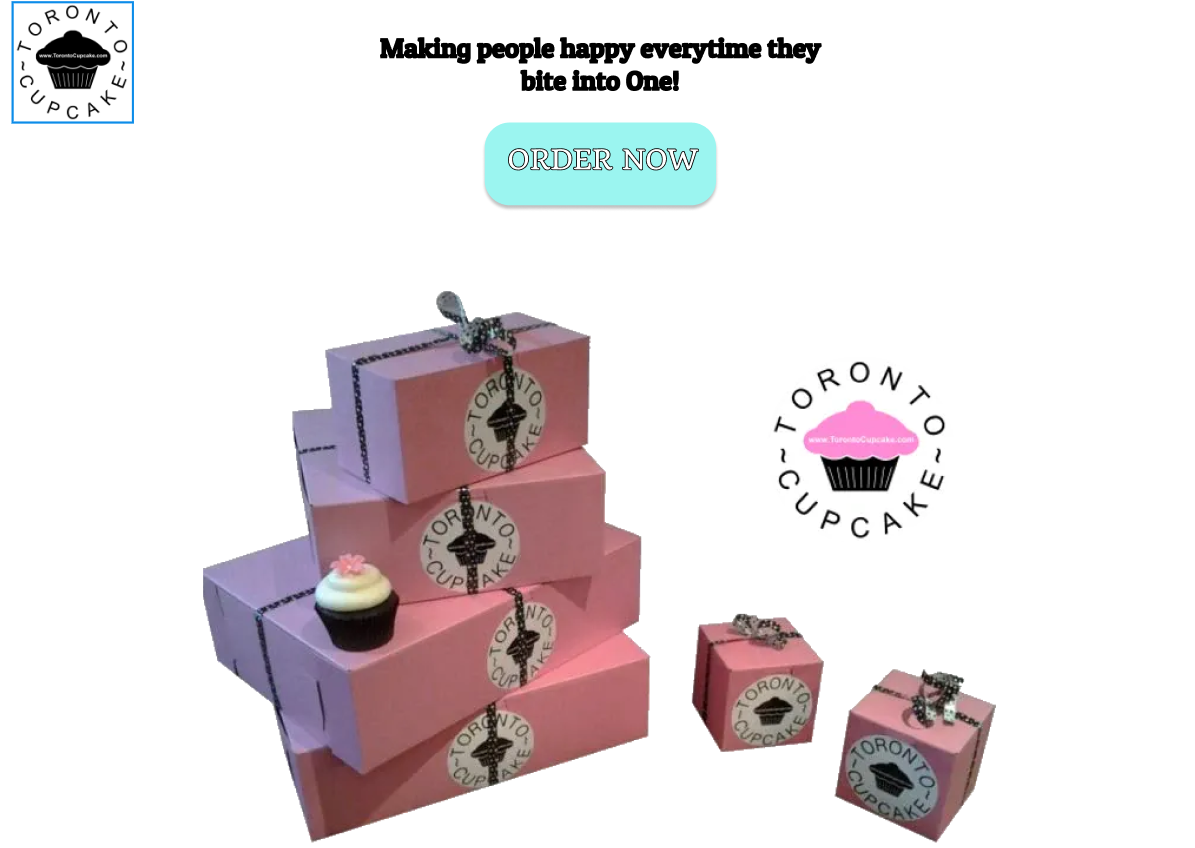
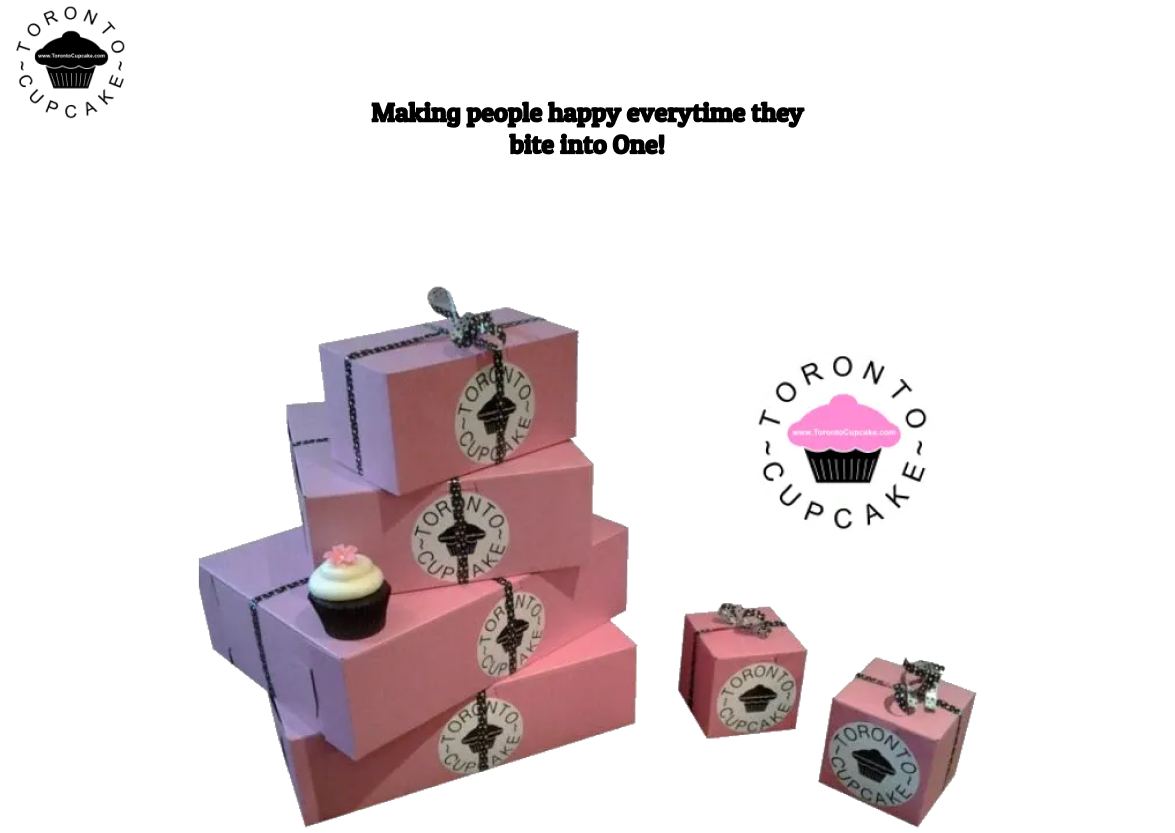
Week 4 Changes

diff --git a/src/components/App/App.css b/src/components/App/App.css
@@ -18,7 +18,7 @@
     min-height: 100vh;
     display: flex;
     flex-direction: column;
-    align-items: center;
+    align-items: left;
     justify-content: center;
     font-size: calc(10px + 2vmin);
     color: white;
@@ -39,11 +39,36 @@
   h1 {
     text-align: center;
     color: rgb(0, 0, 0);
-    font-style: italic ;
+    font-family: 'Passion One', cursive;
+    font-size: 50px;
+    text-shadow: 2px 2px rgb(154, 1, 168);
   }
   div {
     text-align: center;
   }
   h2 {
     text-align: center;
+    color: rgb(0, 0, 0);
+    font-family: 'Passion One', cursive;
+    font-size: 35px;
+    text-shadow: 2px 2px rgb(154, 1, 168);
+  }
+  .order-button button {
+    background-color: hsl(177, 100%, 50%);
+    border: none;
+    color: white;
+    padding: 12px 50px;
+    text-align: center;
+    text-decoration: none;
+    display: inline-block;
+    font-size: 26px;
+    margin: 10px 10px;
+    cursor: pointer;
+    white-space: nowrap;
+    font-family: 'Passion One', cursive;
+    position: relative;
+    left: 0px;
+    border-radius: 15%;
+    box-shadow: 5px 5px 10px 2px rgb(154, 1, 168);
+    text-shadow: 1px 2px 1px  rgb(0, 0, 0);
   }

diff --git a/src/index.css b/src/index.css
@@ -10,18 +10,25 @@ ul.header li {
   display: inline;
   list-style-type: none;
   margin: 0;
+  
 }
 ul.header {
   background-color: rgb(250, 187, 211);
   padding: 0;
+  
 }
 ul.header li a {
+  align-items: center;
   color: rgb(255, 255, 255);
   font-weight: bold;
-  font-size: large;
+  font-size: 30px;
+  font-family: 'Passion One', cursive;
   text-decoration: none;
   padding: 30px;
   display: inline-block;
+  box-shadow: 5px 5px 10px 2px rgb(154, 1, 168);
+  border-radius: 5%;
+  text-shadow: 2px 2px rgb(0, 0, 0);
 }
 .content {
   background-color: rgb(255, 255, 255);

diff --git a/src/components/Home/Home.js b/src/components/Home/Home.js
@@ -3,8 +3,14 @@ import home from "./Home2.png";
 
 export default function Home() {
     return (
-        <div>
+        <div className="home"> 
+            <div className="order-button">
+            <button>Order Now</button>
+            </div>
+            <p>   
             <img alt="home" src={home} />
-        </div>
+            </p>
+            
+        </div>   
     )
 }
